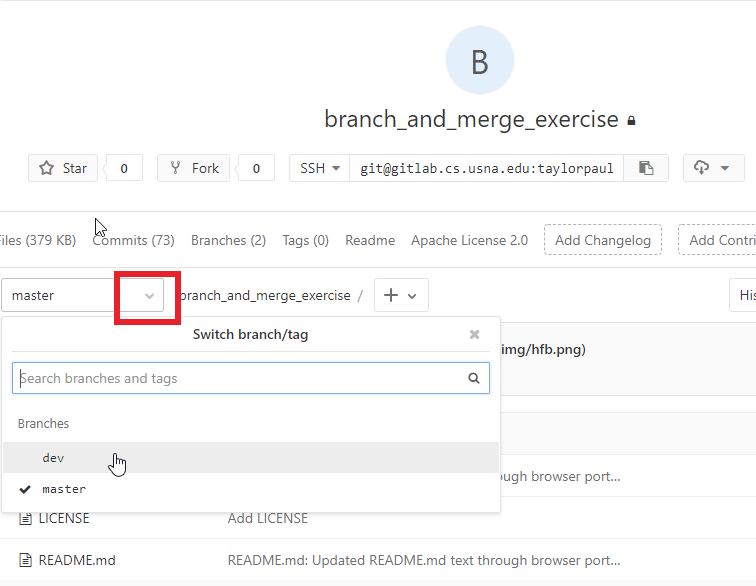
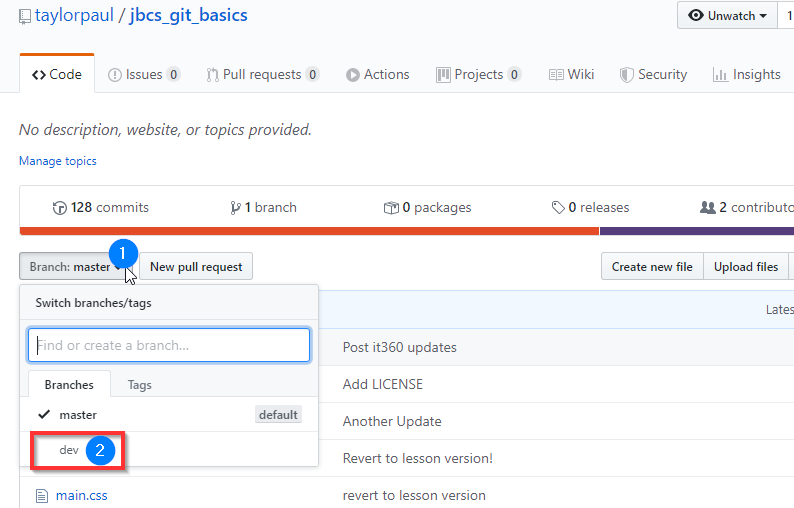
Last commit before heading home

diff --git a/README.md b/README.md
@@ -1,4 +1,4 @@
-CTRL + # Happy Fun Ball
+# Happy Fun Ball
 
 ## A Lesson on Git Branches and Merging
 ### Citations
@@ -233,17 +233,18 @@ To make a new branch AND checkout the new branch (we will call our new branch 'd
   - `git push origin dev`
 
     - Example terminal output:
-        <pre> remote:
-        remote: To create a merge request for dev, visit:
-        remote:   https://github.com/YOUR-GITHUB-HANDLE/jbcs_git_basics/merge_requests/new?merge_request%5Bsource_branch%5D=dev
-        remote:
-        To github.com:YOUR-GITHUB-HANDLE/jbcs_git_basics.git
-        * [new branch]      dev -> dev</pre>
-    </details>
-<!-- NOTE: Stopped here! Need to update branch images for github -->
+        <pre> Total 0 (delta 0), reused 0 (delta 0)
+remote:
+remote: Create a pull request for 'dev' on GitHub by visiting:
+remote:      https://github.com/taylorpaul/jbcs_git_basics/pull/new/dev
+remote:
+To git@github.com:taylorpaul/jbcs_git_basics.git
+ * [new branch]      dev -> dev
+</pre>
+
 ###### Browser - GitHub:
 Select your new dev branch on GitHub (it should be there, refresh the tab if you don't see it).
-You will see a new message along the top of GitHub and can also see the new change from clicking the drop-down arrow next to *master*:  
+You will see the new change from clicking the drop-down arrow next to *master*:  
 
 ![pull-down menu](img/gitlab_dev_branch.png)
 
@@ -327,7 +328,7 @@ In general it is best practice to make a new branch for each bug you are fixing 
         <pre>  [link-files 7c03f6a] index.html and main.css linked
         1 file changed, 2 insertions(+), 2 deletions(-)</pre>
     </details>
-- `git push origin link-files`  (Remember: `origin`and `link-files` can be autocompeletd by using `tab`)
+- `git push origin link-files`  (Remember: `origin`and `link-files` can be auto-completed by using `tab`)
     - Example terminal output:
         <pre>  
         Counting objects: 3, done.
@@ -341,15 +342,15 @@ In general it is best practice to make a new branch for each bug you are fixing 
         To git@github.com:YOUR-GITHUB-HANDLE/jbcs_git_basics.git
         * [new branch]      link-files -> link-files</pre>
     </details>
-- Check your repo on USNA GitLab to see that the new branch is there like we did above!
+- Check your repo on github.com to see that the new branch is there like we did above!
 
 ***
 
-#### Part 4 - Merge New Feature into Dev Branch via GitLab
-Git merging can be done both locally via the command line, or remotely using a `merge request` via GitLab (Note: a `merge request` on GitLab is equivalent to a `pull request` on GitHub, both are completing a merge of branches!). When working by yourself, when you have full permissions to all project branches, you will likely use the terminal to conduct your merges. When working on a collaboration project, where usually only a select group of people (like your Team Leader) have permission to merge into production branches, you will more often initiate a merge via a GitLab `merge request`!  Let's start with the `merge request` method!
+#### Part 4 - Merge New Feature into Dev Branch via GitHub
+Git merging can be done both locally via the command line, or remotely using a `pull request` via GitHub (Note for GitLab users: a `merge request` on GitLab is equivalent to a `pull request` on GitHub, both are completing a merge of branches!). When working by yourself, when you have full permissions to all project branches, you will likely use the terminal to conduct your merges. When working on a collaboration project, where usually only a select group of people (like your Team Leader) have permission to merge into production branches, you will more often initiate a merge via a GitHub `pull request`!  Let's start with the `pull request` method!
 
 
-###### Browser - GitLab:
+###### Browser - GitHub:
 - See new `link-files` branch (either a message will pop up or if no message in view use the branch pull down to see)
   - ![Merge Request Screenshot](img/gitlab_merge_request.png)
 
